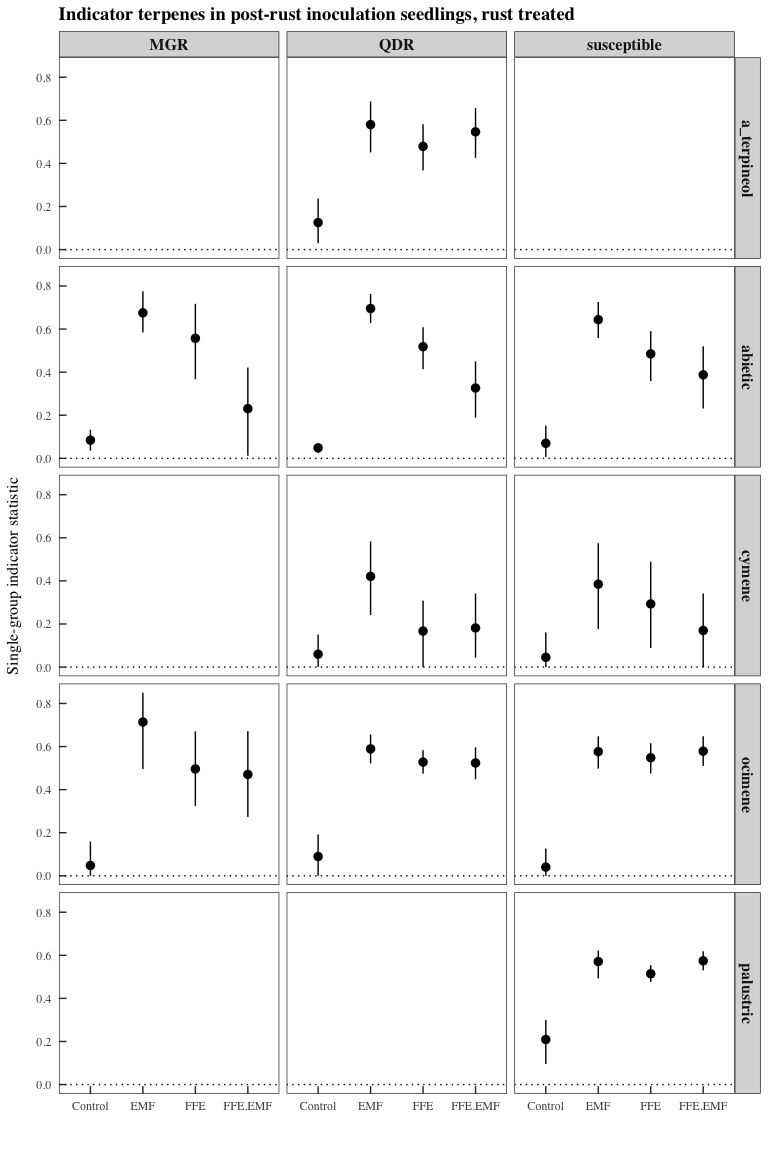
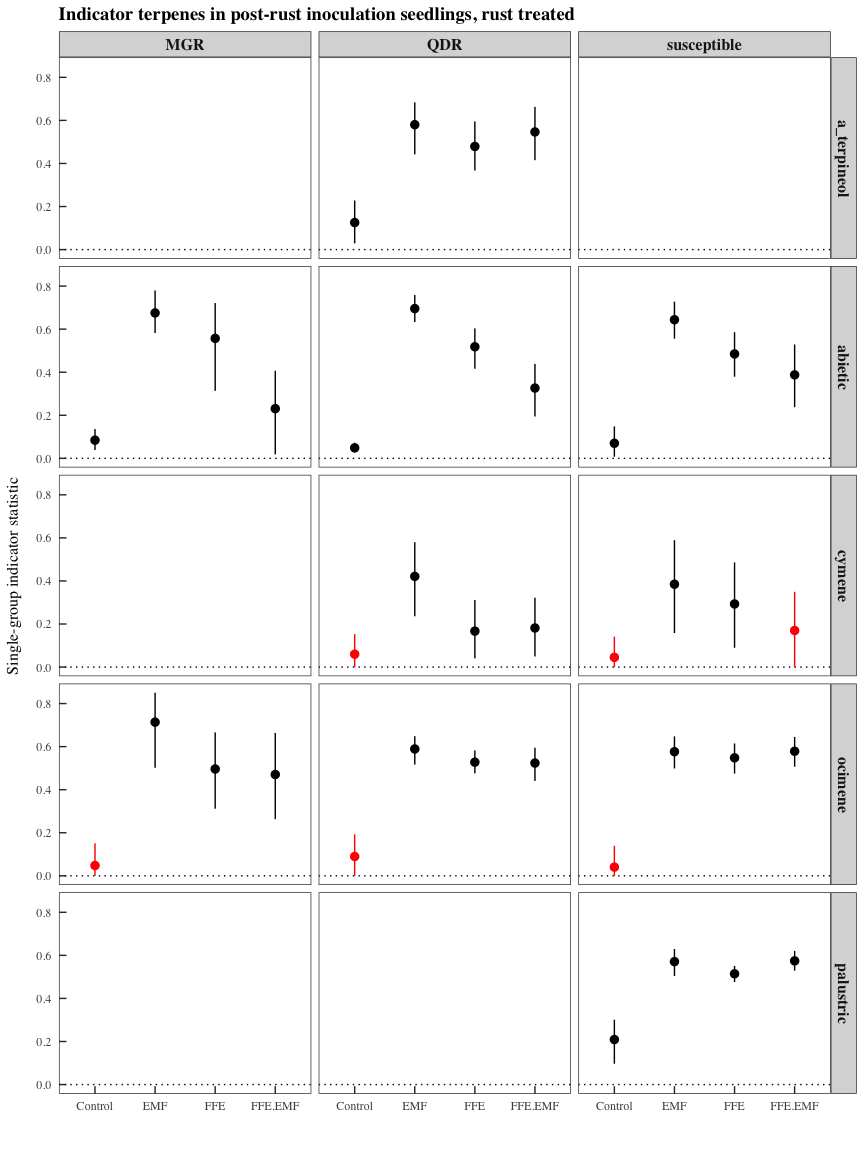
Commit from RStudio, MBP, EOD

diff --git a/terpenes_indicators.md b/terpenes_indicators.md
@@ -2,7 +2,8 @@ Identifying indicator terpenes for assessments, treatments, and
 resistance classes
 ================
 Beau Larkin
-2022-12-09
+
+Last updated: 16 December, 2022
 
 - <a href="#description" id="toc-description">Description</a>
 - <a href="#package-and-library-installation"
@@ -10,6 +11,8 @@ Beau Larkin
   installation</a>
 - <a href="#data" id="toc-data">Data</a>
 - <a href="#functions" id="toc-functions">Functions</a>
+  - <a href="#pre-rust-function" id="toc-pre-rust-function">Pre-rust
+    function</a>
   - <a href="#post-rust-function" id="toc-post-rust-function">Post-rust
     function</a>
 - <a href="#results" id="toc-results">Results</a>
@@ -27,6 +30,9 @@ Beau Larkin
       indicators and confidence intervals</a>
     - <a href="#rust-inoculated-seedlings"
       id="toc-rust-inoculated-seedlings">Rust-inoculated seedlings</a>
+    - <a href="#plot-of-indicators-and-confidence-intervals-2"
+      id="toc-plot-of-indicators-and-confidence-intervals-2">Plot of
+      indicators and confidence intervals</a>
 
 # Description
 
@@ -54,9 +60,11 @@ for example, when indicators are found for groupings of control and
 treatment seedlings.
 
 Finally, the function `strassoc()` is used to produce bootstrapped
-confidence intervals on indicator’s strength of association to groups.
+confidence intervals on indicators’ strength of association to groups.
 The additional post-hoc test hopefully reduces the need for or concern
-over p-value corrections to `multipatt()`.
+over p-value corrections to `multipatt()`. The bootstrapped statistics
+and confidence intervals also allow the production of figures using
+`ggplot()` for easy interpretation.
 
 Indicator species analysis here is run on subsets of the seedling
 response data:
@@ -152,6 +160,7 @@ sapply(data, function(x)
     ## # … with 16 more variables: nc5 <dbl>, pbr5 <dbl>, br5 <dbl>, ss5 <dbl>,
     ## #   dm4 <dbl>, sv4 <dbl>, ss4 <dbl>, dm3 <dbl>, sv3 <dbl>, vig3 <dbl>,
     ## #   bi3 <dbl>, nc3 <dbl>, pbr3 <dbl>, br3 <dbl>, ss3 <dbl>, ht1 <dbl>
+    ## # ℹ Use `colnames()` to see all variable names
 
 # Functions
 
@@ -159,7 +168,9 @@ Two wrapper functions are used to produce summaries of the function
 `multipatt()`. Two functions are needed because with the pre-rust
 assessment, only treatments are considered within each resistance class.
 Post-rust, assessments and treatments must be considered within each
-resistance class. \## Pre-rust function
+resistance class.
+
+## Pre-rust function
 
 ``` r
 indVal_prerust_ci <- data.frame()
@@ -234,7 +245,7 @@ indic_post <- function(rc, a, p=999, nb=999) {
   indVal <- multipatt(
     X,
     Y$treatment,
-    control = how(nperm = 999)
+    control = how(nperm = p)
   )
   
   ind_compounds <- indVal$sign %>% 
@@ -356,6 +367,11 @@ indic_pre("MGR")
 
 Abietic acid identified as an indicator in all treatment seedlings, as
 opposed to controls, with decent specificity and very high fidelity.
+
+#### Summary
+
+**Abietic acid is a consistent indicator of symbiont-treated seedlings
+across the board in the pre_rust assessment.**
 
 ### Plot of indicators and confidence intervals
 
@@ -491,7 +507,7 @@ indic_post("MGR", "rust_ctrl")
     ##  Group Control+FFE+EMF  #sps.  2 
     ##                  A      B  stat p.value    
     ## ocimene     0.9735 1.0000 0.987   0.001 ***
-    ## a_terpineol 0.8177 1.0000 0.904   0.002 ** 
+    ## a_terpineol 0.8177 1.0000 0.904   0.001 ***
     ## 
     ##  Group EMF+FFE+EMF  #sps.  2 
     ##                A      B  stat p.value    
@@ -509,10 +525,15 @@ indic_post("MGR", "rust_ctrl")
 No terpenes are indicators for one treatment group. Levopiramic and
 neoabietic are indicators for treatments, as opposed to controls.
 
-**Constitutive terpenes after rust inoculation segregate along whether
-seedlings were treated with symbionts. There is minimal effect of
-resistance class. Levopiramic, neoabietic, and dehydroabietic, are
-consistent terpenes in this group.**
+#### Summary
+
+- **Constitutive terpenes after rust inoculation segregate along whether
+  seedlings were treated with symbionts. There is minimal effect of
+  resistance class. Levopiramic, neoabietic, and dehydroabietic, are
+  consistent terpenes in this group.**
+- **Abietic and palustric acids were associated with EMF (both EMF and
+  EMF+FFE treatments) across resistance classes among the rust
+  controls.**
 
 ### Plot of indicators and confidence intervals
 
@@ -521,7 +542,8 @@ single-group comparisons. The statistic shown may not match a
 significant pooled-group statistic if one was found using `multipatt()`.
 Confidence intervals are based on boostrap replication in `strassoc()`
 (n=1000). Confidence intervals which overlap zero mean that the
-statistic is non-significant.
+statistic is non-significant. Zero-overlapping CIs are shown as red on
+the plot.
 
 ![](terpenes_indicators_files/figure-gfm/indVal_rustctrl_plot-1.png)<!-- -->
 
@@ -629,16 +651,29 @@ indic_post("MGR", "rust_inoc")
 No terpenes are indicators for one treatment group. Only ocimene is
 associated with symbiont treatments, as opposed to controls.
 
-**Terpenes in the post-rust, induced seedlings also often segregate
-along symbiont treatments vs. controls. Consistent indicators in this
-group include ocimene and abietic acid.**
+#### Summary
 
-\#’ \### Plot of indicators and confidence intervals The plot below
-shows indicator statistics and confidence intervals on single-group
-comparisons. The statistic shown may not match a significant
-pooled-group statistic if one was found using `multipatt()`. Confidence
-intervals are based on boostrap replication in `strassoc()` (n=1000).
-Confidence intervals which overlap zero mean that the statistic is
-non-significant.
+- **Terpenes in the post-rust, induced seedlings also often segregate
+  along symbiont treatments vs. controls. Consistent indicators in this
+  group include ocimene and abietic acid.**
+- **Results among resistance classes were spottier here. Where they were
+  identified, indicators’ patterns were similar among resistance
+  classes, but in several cases, indicators were only identified for one
+  or two resistance classes.**
+- **Note that rust inoculation is a big hammer on terpenes. An indicator
+  analysis performed on treatment=control and rust_ctrl vs. rust_inoc
+  assessments revealed that 21 of 26 terpenes were indicators, most of
+  rust_inoc (not shown). This didn’t seem an interesting result given
+  the lethality of this disease.**
+
+### Plot of indicators and confidence intervals
+
+The plot below shows indicator statistics and confidence intervals on
+single-group comparisons. The statistic shown may not match a
+significant pooled-group statistic if one was found using `multipatt()`.
+Confidence intervals are based on boostrap replication in `strassoc()`
+(n=1000). Confidence intervals which overlap zero mean that the
+statistic is non-significant. Zero-overlapping CIs are shown as red on
+the plot.
 
 ![](terpenes_indicators_files/figure-gfm/indVal_rustinoc_plot-1.png)<!-- -->

diff --git a/README.md b/README.md
@@ -3,10 +3,12 @@ Analysis of western white pine (*Pinus monitcola*) terpenes in response to blist
 
 ## Source data
 The [Database]() directory contains raw csv files which are extracted, transformed, and loaded by [data_etl.md](data_etl.R). The ETL script is called separately in each analysis script for brevity.
+
 - Raw script: [data_etl.R](data_etl.md)
 
 ## Global ordination and permutation tests
 Ordinations of class centroids for each resistance class of seedlings. Locations based on all terpene compounds. Permutation tests conducted with `adonis2()` and 1999 permutations. 
+
 - Report format: [terpenes_globalTests.md](terpenes_globalTests.md)
 - Raw script: [terpenes_globalTests.R](terpenes_globalTests.R)
 
@@ -16,10 +18,15 @@ within resistance classes and assessments, and between symbiont controls and tre
 permuted within experimental greenhouse blocks.
 2. Permutations tests as in #1, but between induced and control seedlings after the rust inoculation step
 (**rust_inoc** vs. **rust_ctrl**)
+
 - Report format: [terpenes_pairwiseTests.md](terpenes_pairwiseTests.md)
 - Raw script: [terpenes_pairwiseTests.R](terpenes_pairwiseTests.R)
 
 ## Indicator terpenes 
+An indicator species analysis [Borcard et al. 2018](https://doi.org/10.1007/978-3-319-71404-2) is conducted 
+to identify which terpene compounds associate strongly with particular assessments, 
+resistance classes, or treatments. A post-hoc bootstrap test is conducted to produce visualizations and 
+corroborate the indicator species analysis.
 
 - Report format: [terpenes_indicators.md](terpenes_indicators.md)
 - Raw script: [terpenes_indicators.R](terpenes_indicators.R)

diff --git a/terpenes_pairwiseTests.md b/terpenes_pairwiseTests.md
@@ -1,7 +1,8 @@
 Pairwise tests of terpene composition
 ================
 Beau Larkin
-2022-12-09
+
+Last updated: 16 December, 2022
 
 - <a href="#description" id="toc-description">Description</a>
 - <a href="#package-and-library-installation"
@@ -43,7 +44,7 @@ brevity.
 
 ``` r
 # Package and library installation
-packages_needed <- c("tidyverse", "knitr", "vegan", "colorspace")
+packages_needed <- c("tidyverse", "knitr", "vegan")
 packages_installed <-
   packages_needed %in% rownames(installed.packages())
 ```
@@ -57,11 +58,6 @@ if (any(!packages_installed))
 for (i in 1:length(packages_needed)) {
   library(packages_needed[i], character.only = T)
 }
-```
-
-``` r
-# Load ggplot styles and themes from text file
-source("gg_style.txt")
 ```
 
 # Data
@@ -119,6 +115,7 @@ sapply(data, function(x)
     ## # … with 16 more variables: nc5 <dbl>, pbr5 <dbl>, br5 <dbl>, ss5 <dbl>,
     ## #   dm4 <dbl>, sv4 <dbl>, ss4 <dbl>, dm3 <dbl>, sv3 <dbl>, vig3 <dbl>,
     ## #   bi3 <dbl>, nc3 <dbl>, pbr3 <dbl>, br3 <dbl>, ss3 <dbl>, ht1 <dbl>
+    ## # ℹ Use `colnames()` to see all variable names
 
 # Functions
 

diff --git a/terpenes_globalTests.md b/terpenes_globalTests.md
@@ -1,7 +1,8 @@
 Global tests of terpene composition
 ================
 Beau Larkin
-2022-12-08
+
+Last updated: 16 December, 2022
 
 - <a href="#description" id="toc-description">Description</a>
 - <a href="#package-and-library-installation"
@@ -55,11 +56,6 @@ if (any(!packages_installed))
 for (i in 1:length(packages_needed)) {
   library(packages_needed[i], character.only = T)
 }
-```
-
-``` r
-# Load ggplot styles and themes from text file
-source("gg_style.txt")
 ```
 
 # Data
@@ -117,6 +113,7 @@ sapply(data, function(x)
     ## # … with 16 more variables: nc5 <dbl>, pbr5 <dbl>, br5 <dbl>, ss5 <dbl>,
     ## #   dm4 <dbl>, sv4 <dbl>, ss4 <dbl>, dm3 <dbl>, sv3 <dbl>, vig3 <dbl>,
     ## #   bi3 <dbl>, nc3 <dbl>, pbr3 <dbl>, br3 <dbl>, ss3 <dbl>, ht1 <dbl>
+    ## # ℹ Use `colnames()` to see all variable names
 
 # Functions
 
